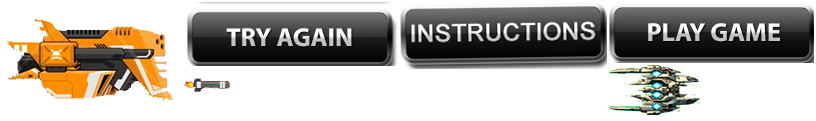
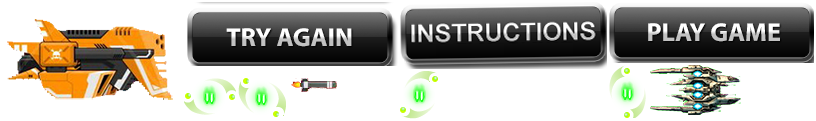
Added power up animation

diff --git a/Side-Scroller/Scripts/managers/asset.js b/Side-Scroller/Scripts/managers/asset.js
@@ -12,10 +12,14 @@
     var spriteSheetData = {
         "images": ["assets/images/atlas.png"],
         "frames": [
-            [609, 65, 91, 50],
+            [650, 65, 91, 50],
             [400, 2, 207, 67],
-            [184, 78, 46, 14],
+            [291, 78, 46, 14],
             [609, 2, 205, 61],
+            [609, 65, 39, 53],
+            [400, 71, 38, 48],
+            [184, 78, 52, 39],
+            [238, 78, 51, 39],
             [2, 2, 180, 117],
             [184, 2, 214, 74]
         ],
@@ -24,20 +28,10 @@
             "instructionsButton": [1],
             "missile": [2],
             "playButton": [3],
-            "ship": [4],
-            "tryAgainButton": [5]
+            "powerUp": [4, 7, "powerUp", 0.2],
+            "ship": [8],
+            "tryAgainButton": [9]
         }
-    };
-
-    var powerUpSprit = {
-        "images": ["assets/images/powerUp.png"],
-        "frames": [
-            [2, 2, 39, 53],
-            [43, 2, 38, 48],
-            [83, 2, 52, 39],
-            [137, 2, 51, 39]
-        ],
-        animations: { powerUpSprite: [0, 3, "powerUpSprite", 0.3] }
     };
 
     // Asset Manager Class
@@ -50,7 +44,6 @@
             this.loader.installPlugin(createjs.Sound);
             this.loader.loadManifest(assetManifest);
             this.atlas = new createjs.SpriteSheet(spriteSheetData);
-            this.power = new createjs.SpriteSheet(powerUpSprit);
         };
         return Assets;
     })();

diff --git a/Side-Scroller/Scripts/managers/asset.ts b/Side-Scroller/Scripts/managers/asset.ts
@@ -11,10 +11,14 @@
     var spriteSheetData = {
         "images": ["assets/images/atlas.png"],
         "frames": [
-            [609, 65, 91, 50],
+            [650, 65, 91, 50],
             [400, 2, 207, 67],
-            [184, 78, 46, 14],
+            [291, 78, 46, 14],
             [609, 2, 205, 61],
+            [609, 65, 39, 53],
+            [400, 71, 38, 48],
+            [184, 78, 52, 39],
+            [238, 78, 51, 39],
             [2, 2, 180, 117],
             [184, 2, 214, 74]
         ],
@@ -24,23 +28,12 @@
             "instructionsButton": [1],
             "missile": [2],
             "playButton": [3],
-            "ship": [4],
-            "tryAgainButton": [5]
+            "powerUp": [4, 7, "powerUp", 0.2],
+            "ship": [8],
+            "tryAgainButton": [9]
         }
     }
 
-    var powerUpSprit = {
-        "images": ["assets/images/powerUp.png"],
-        "frames": [
-
-            [2, 2, 39, 53],
-            [43, 2, 38, 48],
-            [83, 2, 52, 39],
-            [137, 2, 51, 39]
-        ],
-
-        animations: { powerUpSprite: [0, 3, "powerUpSprite", 0.3] }
-    };
 
     
     
@@ -60,7 +53,6 @@
             this.loader.installPlugin(createjs.Sound);
             this.loader.loadManifest(assetManifest);
             this.atlas = new createjs.SpriteSheet(spriteSheetData);
-            this.power = new createjs.SpriteSheet(powerUpSprit);
         }
 
     }

diff --git a/Side-Scroller/Scripts/objects/powerUp.ts b/Side-Scroller/Scripts/objects/powerUp.ts
@@ -7,24 +7,24 @@ module objects {
         game: createjs.Container;
         height: number;
         width: number;
-        dy: number;
+        dx: number;
         constructor(stage: createjs.Stage, game: createjs.Container) {
             this.stage = stage;
             this.game = game;
-            this.image = new createjs.Sprite(managers.Assets.power);
+            this.image = new createjs.Sprite(managers.Assets.atlas, "powerUp");
             this.width = this.image.getBounds().width;
             this.height = this.image.getBounds().height;
             this.image.regX = this.width / 2;
             this.image.regY = this.height / 2;
             this.reset();
 
-            this.dy = 5;
+            this.dx = 10;
 
             game.addChild(this.image);
         }
 
         update() {
-            this.image.x -= this.dy;
+            this.image.x -= this.dx;
             if (this.image.x < -10 + this.width) {
                 this.reset();
             }
@@ -32,7 +32,7 @@ module objects {
 
         reset() {
             this.image.y = Math.floor(Math.random() * stage.canvas.height);
-            this.image.x = stage.canvas.width + 5000;
+            this.image.x = stage.canvas.width;
         }
 
         destroy() {

diff --git a/Side-Scroller/Scripts/objects/powerUp.js b/Side-Scroller/Scripts/objects/powerUp.js
@@ -6,19 +6,19 @@ var objects;
         function PowerUp(stage, game) {
             this.stage = stage;
             this.game = game;
-            this.image = new createjs.Sprite(managers.Assets.power);
+            this.image = new createjs.Sprite(managers.Assets.atlas, "powerUp");
             this.width = this.image.getBounds().width;
             this.height = this.image.getBounds().height;
             this.image.regX = this.width / 2;
             this.image.regY = this.height / 2;
             this.reset();
 
-            this.dy = 5;
+            this.dx = 10;
 
             game.addChild(this.image);
         }
         PowerUp.prototype.update = function () {
-            this.image.x -= this.dy;
+            this.image.x -= this.dx;
             if (this.image.x < -10 + this.width) {
                 this.reset();
             }
@@ -26,7 +26,7 @@ var objects;
 
         PowerUp.prototype.reset = function () {
             this.image.y = Math.floor(Math.random() * stage.canvas.height);
-            this.image.x = stage.canvas.width + 5000;
+            this.image.x = stage.canvas.width;
         };
 
         PowerUp.prototype.destroy = function () {

diff --git a/Side-Scroller/Scripts/_references.js b/Side-Scroller/Scripts/_references.js
@@ -22,12 +22,8 @@
 /// <reference path="states/play.js" />
 /// <reference path="objects/background.js" />
 /// <reference path="objects/button.js" />
-/// <reference path="objects/cloud.js" />
 /// <reference path="objects/enemy.js" />
-/// <reference path="objects/island.js" />
 /// <reference path="objects/label.js" />
-/// <reference path="objects/ocean.js" />
-/// <reference path="objects/plane.js" />
 /// <reference path="objects/powerup.js" />
 /// <reference path="objects/scoreboard.js" />
 /// <reference path="objects/ship.js" />

diff --git a/Side-Scroller/index.html b/Side-Scroller/index.html
@@ -3,7 +3,7 @@
 <head>
     <meta charset="utf-8" />
     <meta name="viewport" content="width=device-width, initial-scale=1.0"/>
-    <title>mailPilot_v11</title>
+    <title>Side-Scroller</title>
     <!-- CSS Section -->
     <link href="css/normalize.css" rel="stylesheet" />
     <link href="css/app.css" rel="stylesheet" />
